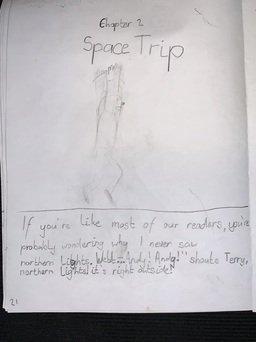
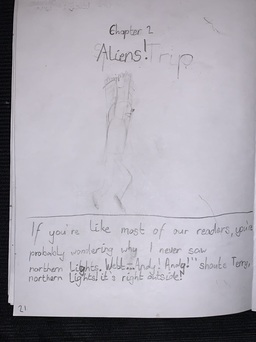
Fix chapter 02

Changed region(s): [[0.0, 0.0, 1.0, 0.9357], [0.3125, 0.0, 0.9062, 0.4386], [0.3438, 0.2339, 0.375, 0.2632]]

diff --git a/_posts/2020-02-09-the-117-story-treehouse-chapter-02.md b/_posts/2020-02-09-the-117-story-treehouse-chapter-02.md
@@ -3,7 +3,7 @@ author: muyao
 layout: post-full
 type: gallery
 featimg: 2020/the-117-story-treehouse-chapter-02/21.jpeg
-title: The 117-Story Treehouse (Chapter 2 - Space Trip)
+title: The 117-Story Treehouse (Chapter 2 - Aliens!)
 tags: [book]
 gallery:
     - images:
@@ -25,6 +25,10 @@ gallery:
         alttext: Page 28
       - filename: 2020/the-117-story-treehouse-chapter-02/29.jpeg
         alttext: Page 29
+      - filename: 2020/the-117-story-treehouse-chapter-02/30.jpeg
+        alttext: Page 30
+      - filename: 2020/the-117-story-treehouse-chapter-02/31.jpeg
+        alttext: Page 31
 ---
 
 My latest book "The 117-Story Treehouse" is about two 9-year old children called
